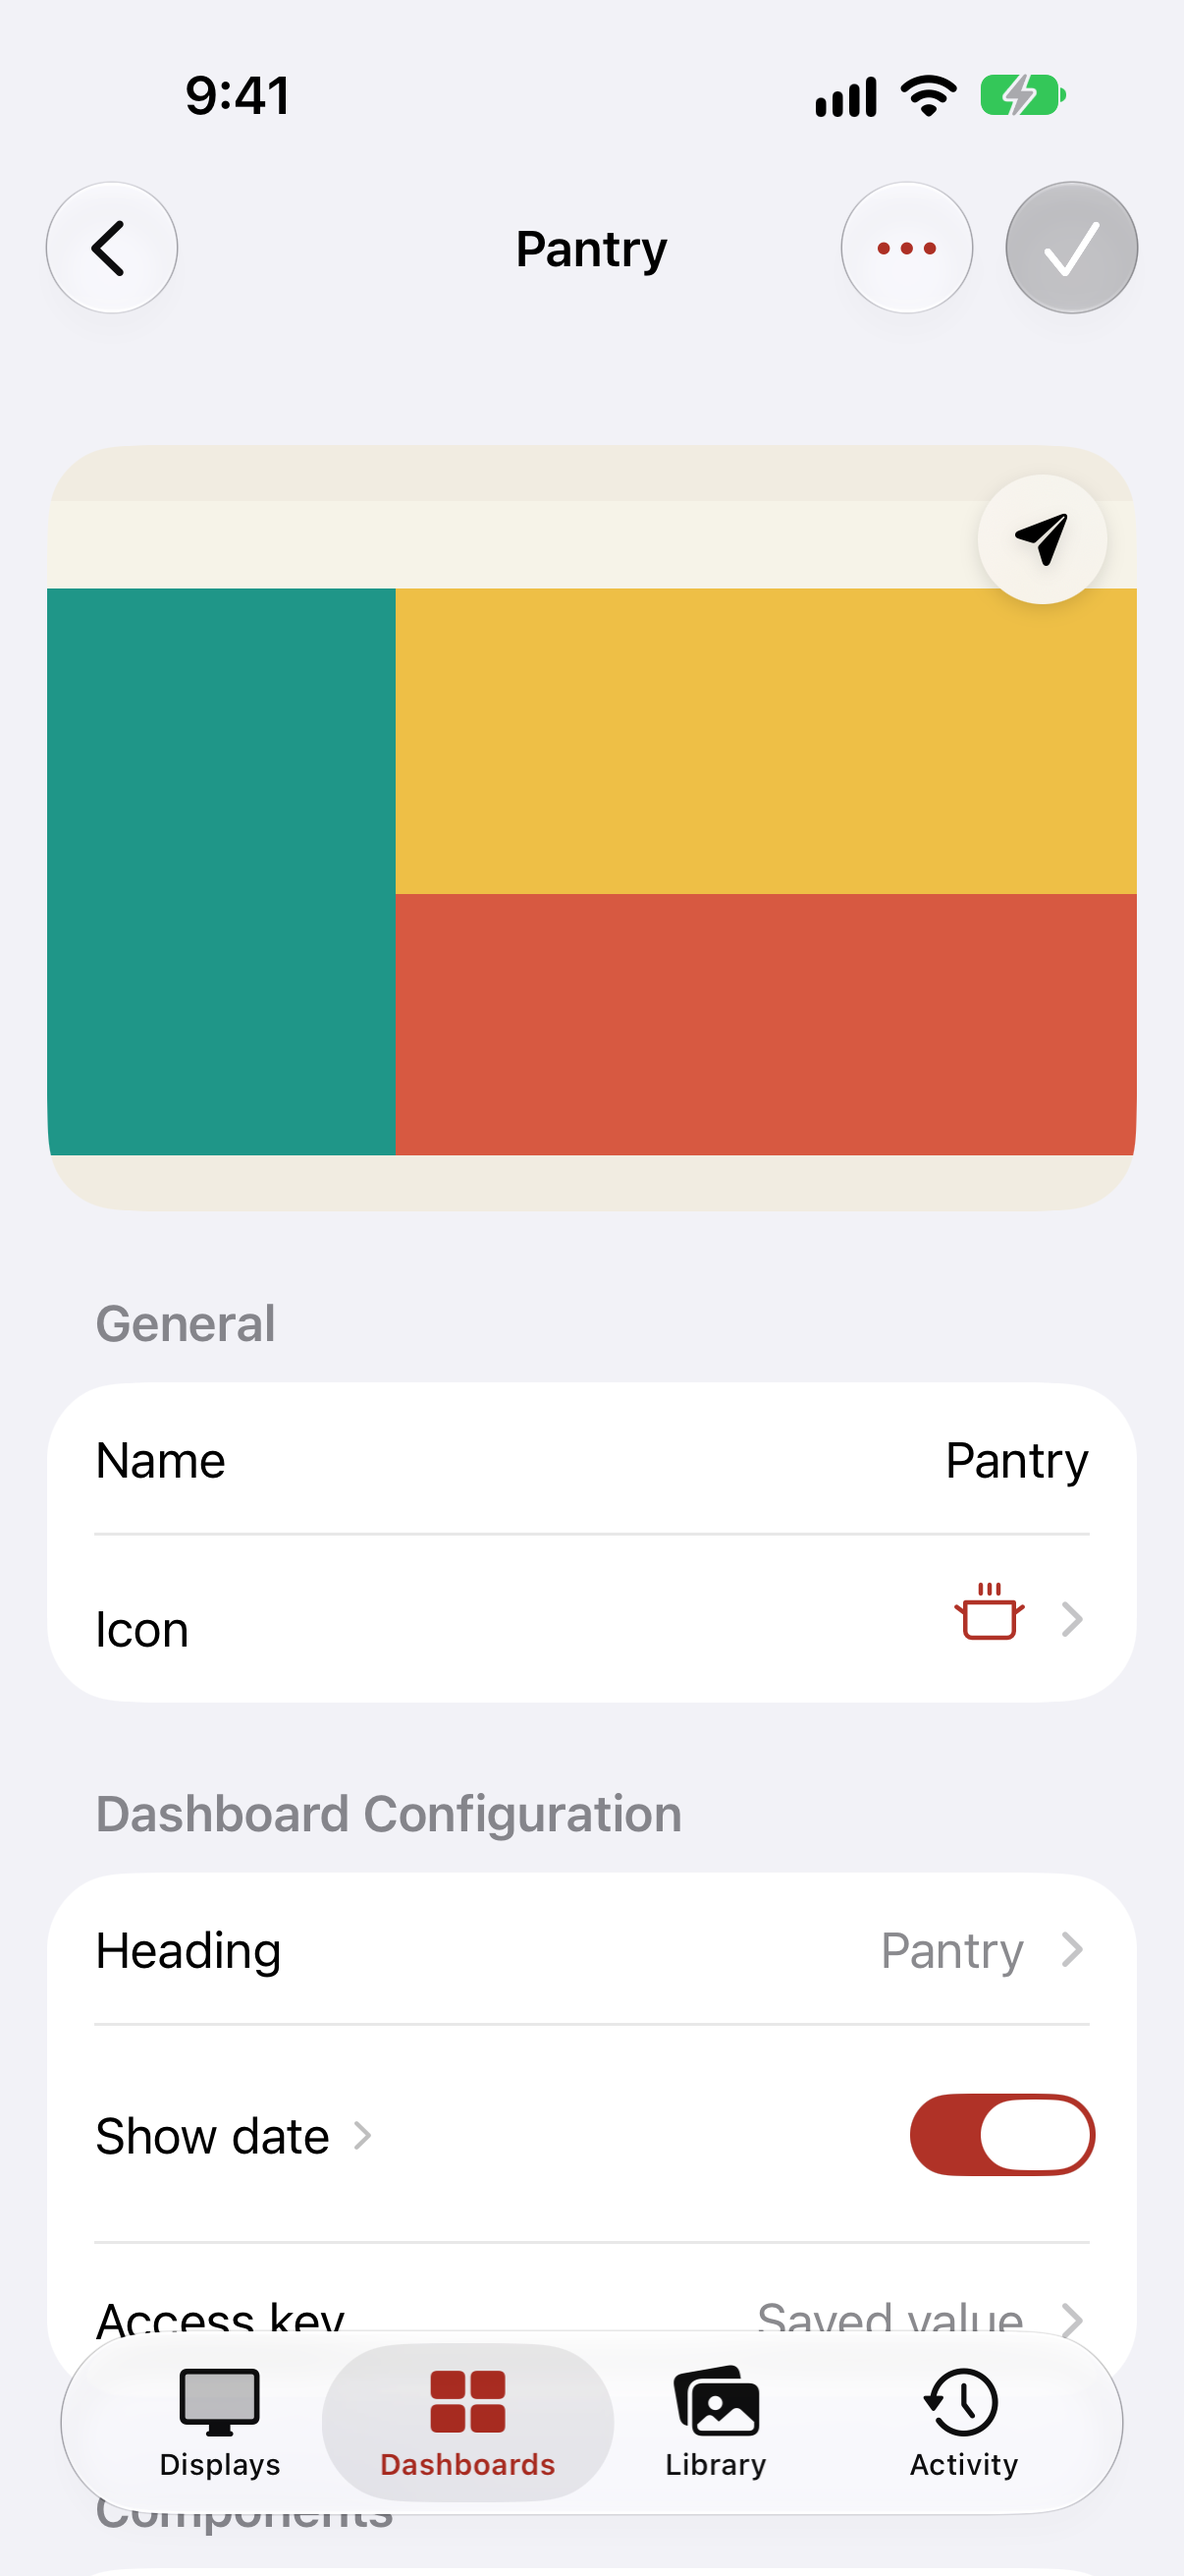
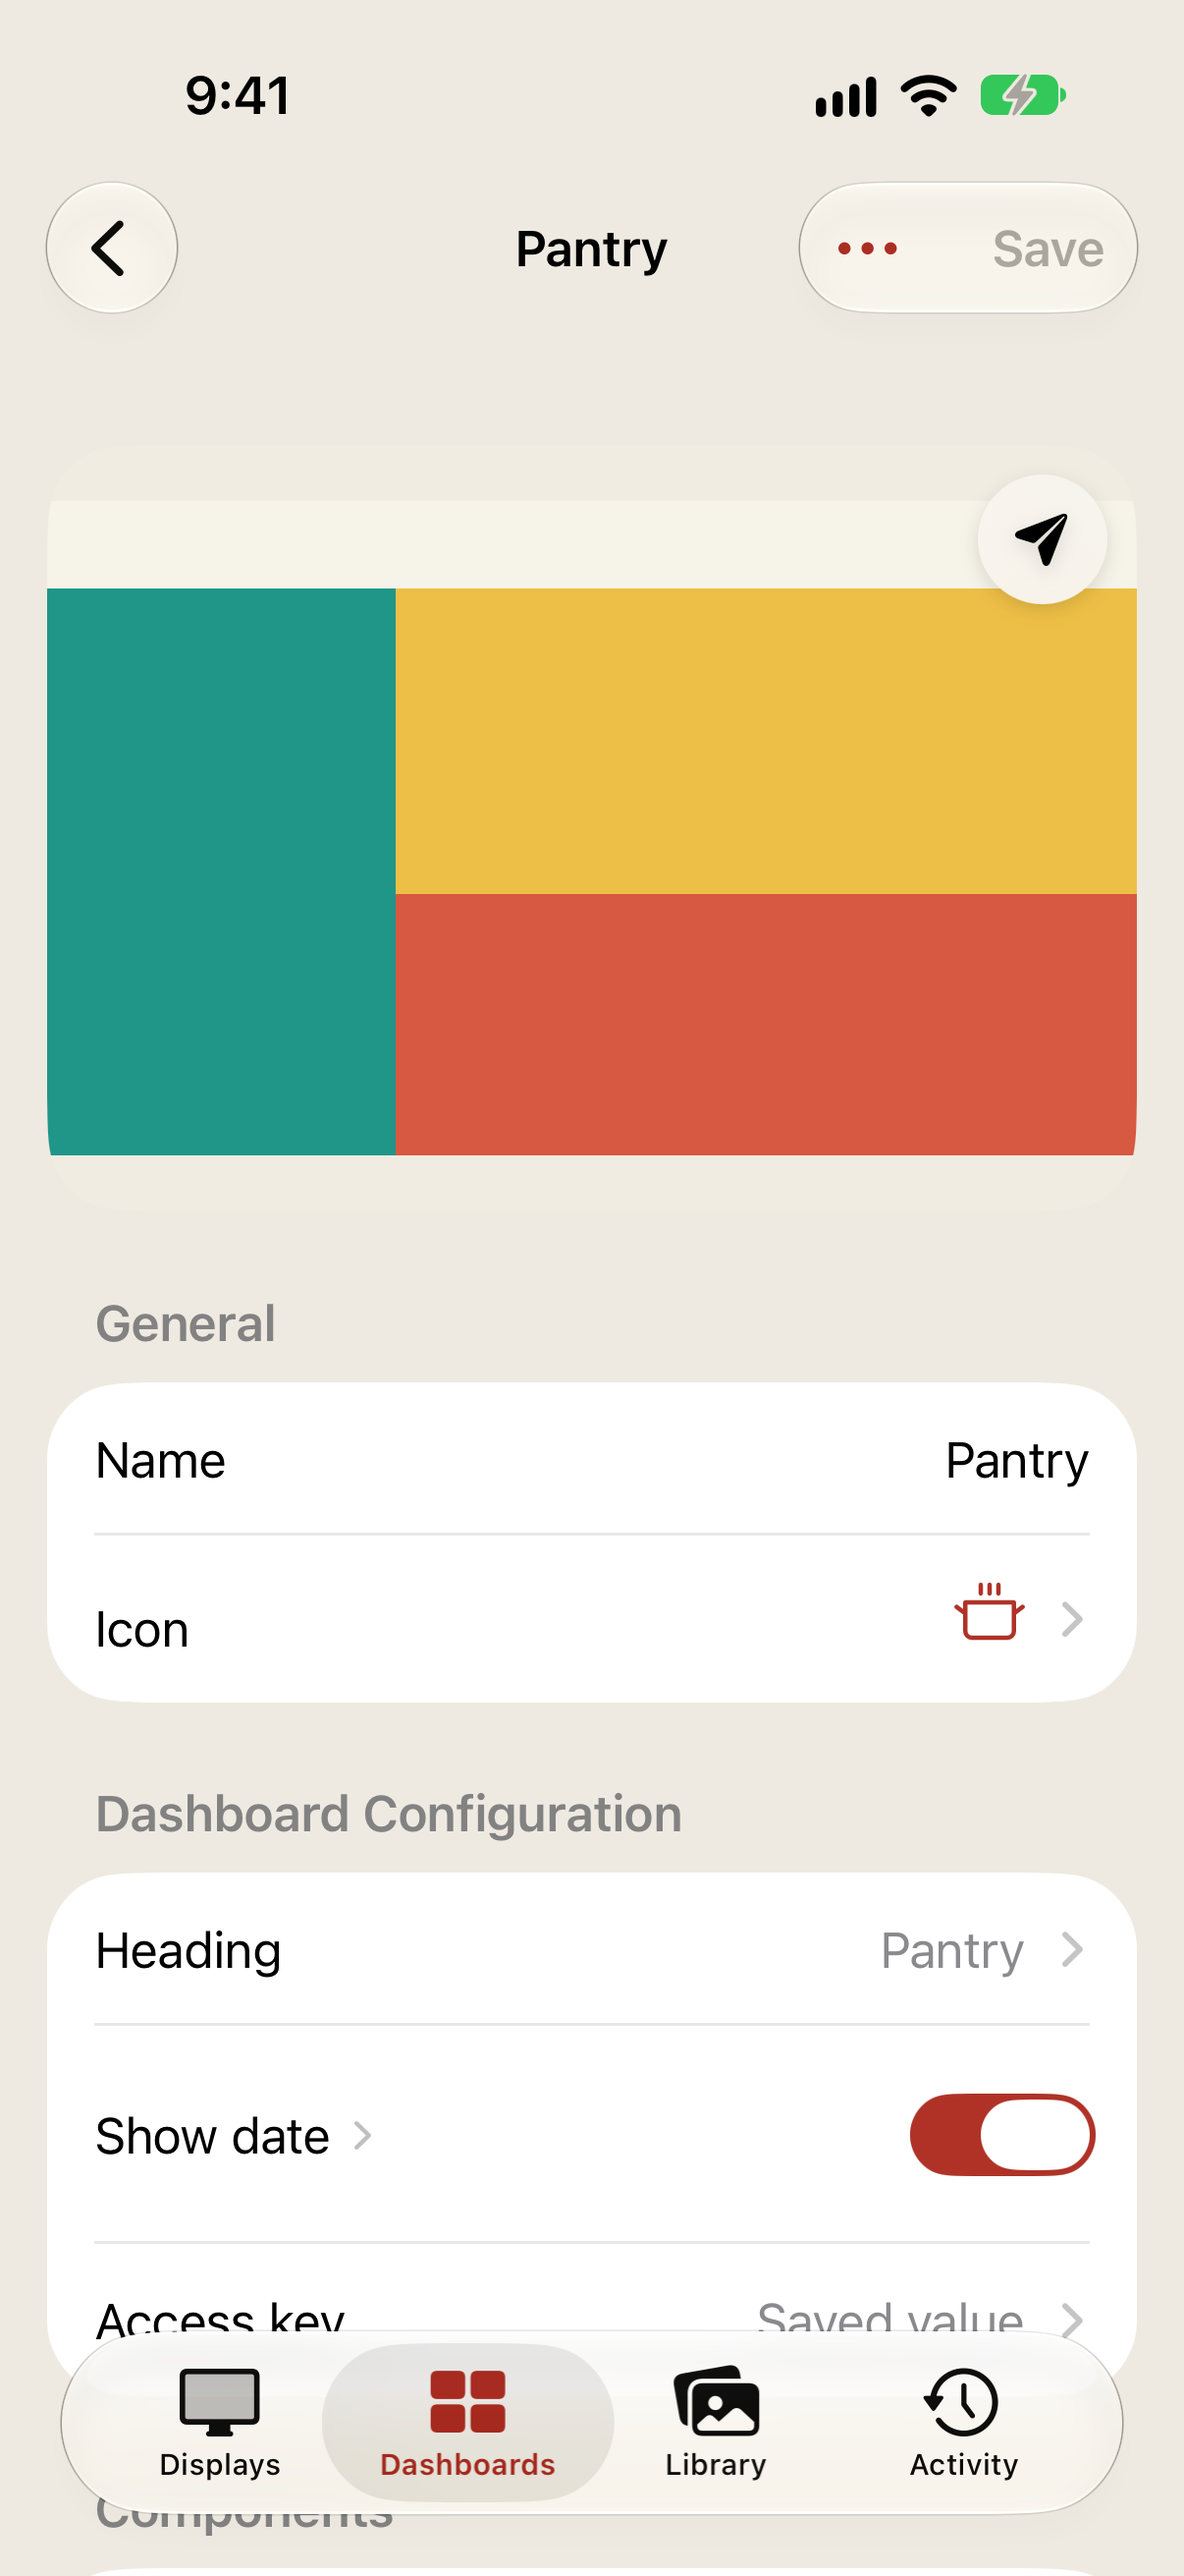
fix(ios): Align Dashboard settings with the app theme
Use the shared paper background and the standard Save toolbar action while preserving save eligibility and unsaved-change protection. Refresh the README screenshot from the corrected UI and retain light/dark captures in the existing UI flows.

Changed region(s): [[0.8284, 0.0618, 0.9818, 0.1236], [0.7056, 0.0927, 0.767, 0.1236]]

diff --git a/App/UITests/DashboardSettingsUITests.swift b/App/UITests/DashboardSettingsUITests.swift
@@ -48,6 +48,11 @@ final class DashboardSettingsUITests: XCTestCase {
     XCTAssertTrue(preview.waitForExistence(timeout: 3))
     XCTAssertGreaterThan(preview.frame.height, 200)
     XCTAssertFalse(app.staticTexts["Preview and Push"].exists)
+    XCTAssertFalse(app.buttons["dashboard-settings-save"].isEnabled)
+    let overviewShot = XCTAttachment(screenshot: app.screenshot())
+    overviewShot.name = "Dashboard native settings"
+    overviewShot.lifetime = .keepAlways
+    add(overviewShot)
     let icon = app.buttons["dashboard-settings-icon"]
     scrollTo(icon, in: app)
     icon.tap()
@@ -64,6 +69,7 @@ final class DashboardSettingsUITests: XCTestCase {
     name.tap()
     name.typeText(" Updated")
     scrollToTop(in: app)
+    XCTAssertTrue(app.buttons["dashboard-settings-save"].isEnabled)
     XCTAssertFalse(app.buttons["dashboard-settings-push"].isEnabled)
     app.buttons["dashboard-settings-save"].tap()
     scrollToTop(in: app)
@@ -211,6 +217,10 @@ final class DashboardSettingsUITests: XCTestCase {
 
   func testComponentChoicesChineseLargeTextDarkLayout() {
     let app = openDashboard(layout: "list", chineseLargeText: true)
+    let overviewShot = XCTAttachment(screenshot: app.screenshot())
+    overviewShot.name = "Dashboard settings Chinese AX5 dark"
+    overviewShot.lifetime = .keepAlways
+    add(overviewShot)
     let album = app.buttons["dashboard-component-demo-album"]
     scrollTo(album, in: app)
     album.tap()

diff --git a/App/Sources/Features/DashboardSettingsView.swift b/App/Sources/Features/DashboardSettingsView.swift
@@ -67,6 +67,8 @@ struct DashboardSettingsView: View {
         }
       }
     }
+    .scrollContentBackground(.hidden)
+    .tesseraeScreenBackground()
     .scrollDismissesKeyboard(.interactively)
     .navigationTitle(dashboard?.name ?? String(localized: "Dashboard Settings"))
     .navigationBarTitleDisplayMode(.inline)
@@ -101,11 +103,10 @@ struct DashboardSettingsView: View {
             if isSaving {
               ProgressView().accessibilityLabel("Save")
             } else {
-              Label("Save", systemImage: "checkmark").labelStyle(.iconOnly)
+              Text("Save")
             }
           }
-          .buttonStyle(.borderedProminent)
-          .buttonBorderShape(.circle)
+          .fontWeight(.semibold)
           .accessibilityLabel("Save")
           .disabled(!dirty || !canEdit || conflict)
           .accessibilityIdentifier("dashboard-settings-save")

diff --git a/docs/images/readme/README.md b/docs/images/readme/README.md
@@ -1,7 +1,11 @@
 # README screenshots
 
-Captured on 24 October 2026 from app source
+Unless noted below, captured on 24 October 2026 from app source
 [`79e6d18367e946b237cc0c14569781541d4c5a74`](https://github.com/charmmmz/tesserae-companion-ios/commit/79e6d18367e946b237cc0c14569781541d4c5a74).
+
+`dashboard-settings.png` was recaptured on the same date and simulator after the
+Dashboard settings paper-background and standard Save-button correction. That
+app change and its refreshed screenshot are committed together in Git history.
 
 - iPhone 18 Pro Simulator, iOS 27.0, English, light appearance.
 - Original 1206 × 2622 PNG captures; no resizing, compositing or image retouching.
@@ -14,7 +18,7 @@ Captured on 24 October 2026 from app source
 | --- | --- |
 | `displays.png` | Demo Mode → Displays |
 | `dashboards.png` | Demo Mode → Dashboards, expanded display groups |
-| `dashboard-settings.png` | Pantry → native settings, before editing |
+| `dashboard-settings.png` | Pantry → native settings, paper background and Save toolbar, before editing |
 | `lineup-editor.png` | New Manual Lineup, selected display and two Dashboards |
 | `gallery.png` | Library → family folder, square image grid |
 | `send-photo.png` | Send → Use Sample, centered Fill with framing controls |

diff --git a/README.md b/README.md
@@ -34,7 +34,7 @@ Tesserae Companion connects directly to your own Tesserae server, with a built-i
   <tr>
     <td align="center"><a href="docs/images/readme/displays.png"><img src="docs/images/readme/displays.png" width="220" alt="Displays overview with hardware, battery, Wi-Fi status, and quick actions"></a></td>
     <td align="center"><a href="docs/images/readme/dashboards.png"><img src="docs/images/readme/dashboards.png" width="220" alt="Saved Dashboards grouped by display with preview and push actions"></a></td>
-    <td align="center"><a href="docs/images/readme/dashboard-settings.png"><img src="docs/images/readme/dashboard-settings.png" width="220" alt="Native Dashboard settings with preview, metadata, and component controls"></a></td>
+    <td align="center"><a href="docs/images/readme/dashboard-settings.png"><img src="docs/images/readme/dashboard-settings.png" width="220" alt="Native Dashboard settings with paper background, Save toolbar, preview, and configuration controls"></a></td>
     <td align="center"><a href="docs/images/readme/lineup-editor.png"><img src="docs/images/readme/lineup-editor.png" width="220" alt="Native Lineup editor with a target display and selected Dashboards"></a></td>
   </tr>
   <tr>
